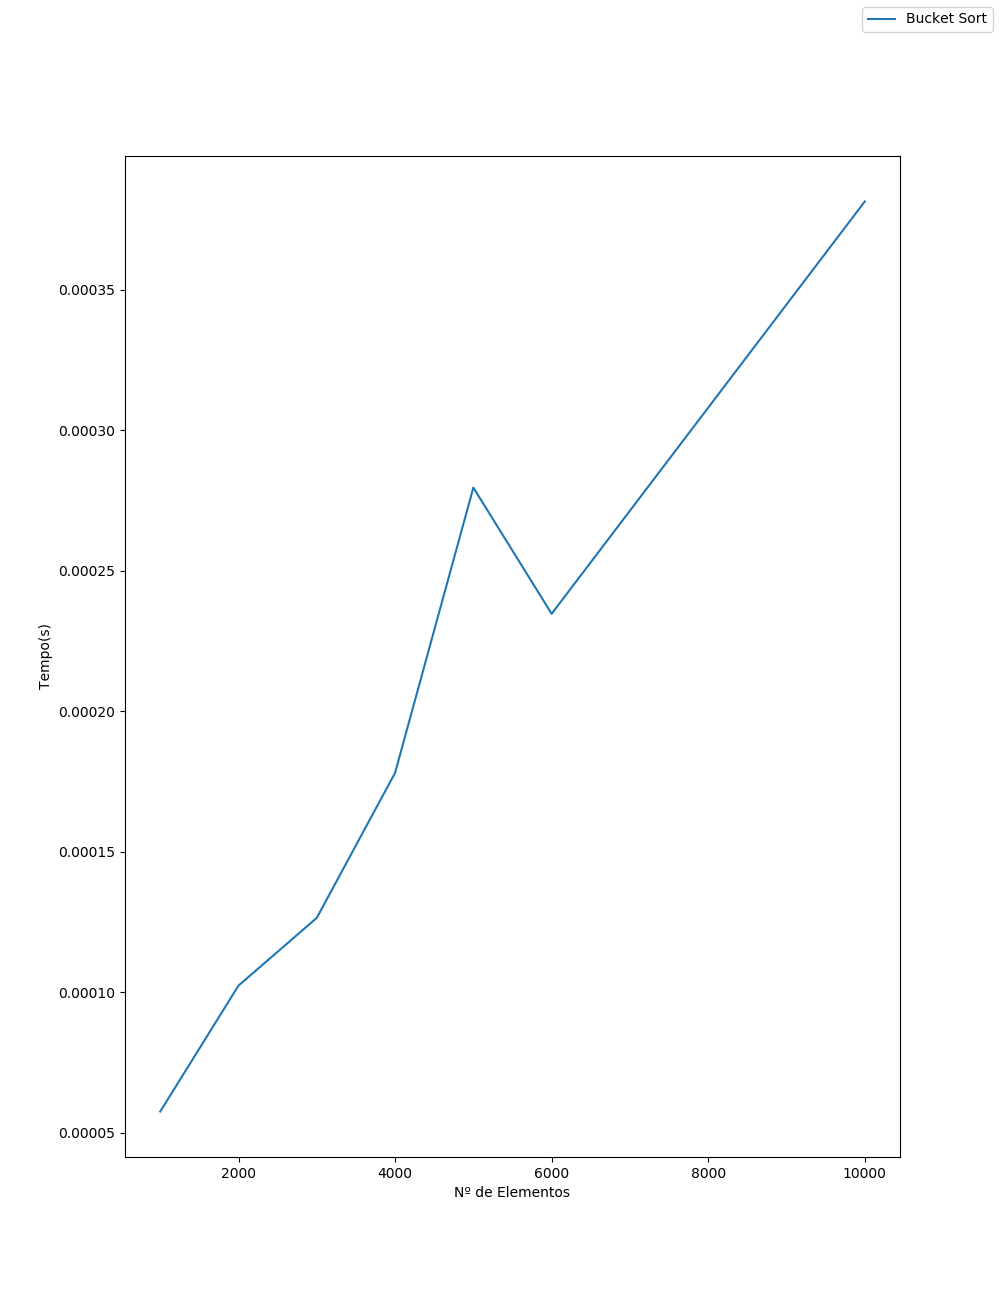
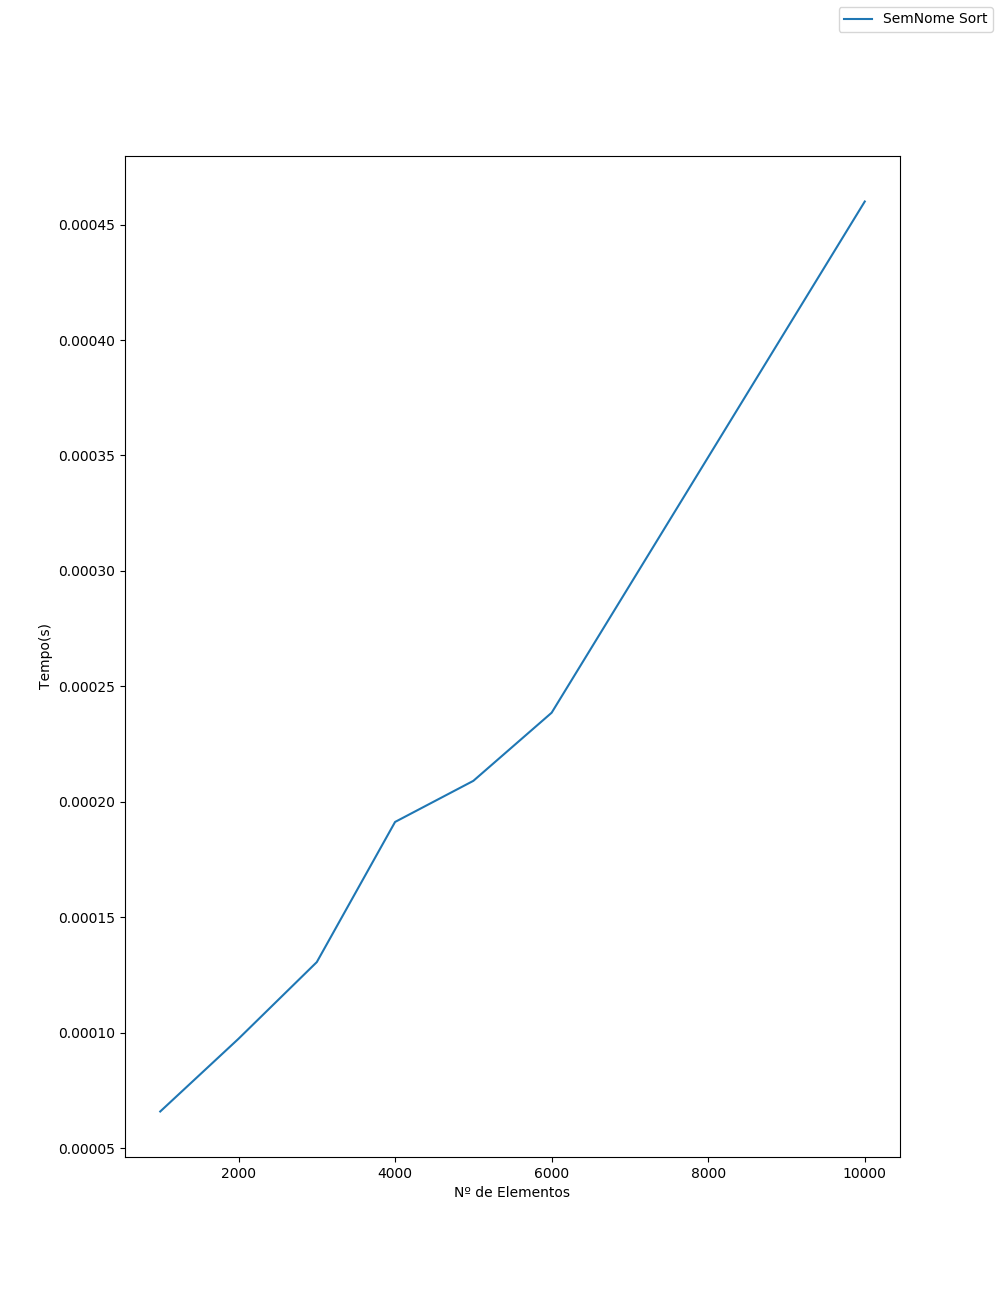
Método Criado

diff --git a/SemNome Sort/Main.py b/SemNome Sort/Main.py
@@ -6,7 +6,7 @@ import timeit
 def drawGraph(x,y, xl = "Nº de Elementos", yl = "Tempo(s)", nam="img"):
     fig = plt.figure(figsize=(10, 13))
     ax = fig.add_subplot(111)
-    ax.plot(x,y, label = "Bucket Sort")
+    ax.plot(x,y, label = "SemNome Sort")
     ax.legend(bbox_to_anchor=(1, 1),bbox_transform=plt.gcf().transFigure)
     plt.ylabel(yl)
     plt.xlabel(xl)
